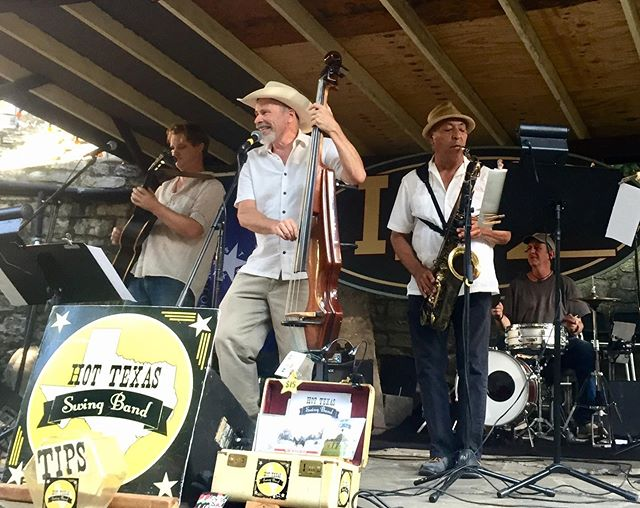
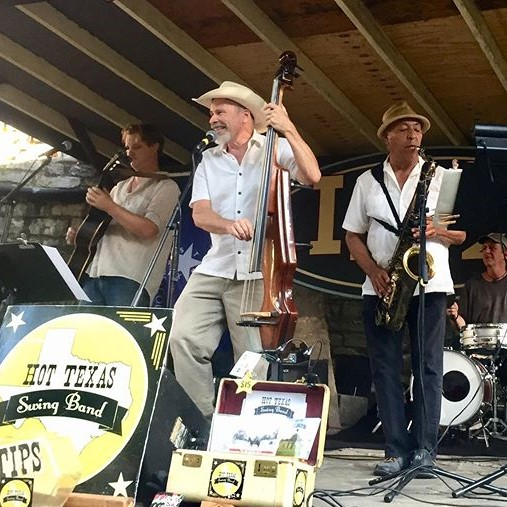
resized band images

diff --git a/assets/styles/style.css b/assets/styles/style.css
@@ -27,6 +27,9 @@ ul {
     text-align: center;
     padding-inline-start: 0;
 }
+h1 {
+    color: rgb(34, 21, 12);
+}
 h2 {
     text-align: center;
     margin-top: 10px !important;
@@ -43,7 +46,7 @@ li {
 }
 /* ----------Navbar---------- */
 .bg-light {
-    background-color: hsl(0, 0%, 4%) !important;
+    background-color: rgb(34, 21, 12) !important;
 }
 .navbar-light,
 .navbar-nav,
@@ -192,6 +195,7 @@ h2 {
     padding: 3%;
     margin-top: auto;
     margin-bottom: auto;
+    text-align: center;
 }
 .wood {
     background-image: url('../images/Boards_3.jpg');
@@ -208,7 +212,7 @@ h2 {
 }
 .bandsRow {
     display: flex;
-    background-color: black !important;
+    background-color: rgb(34, 21, 12) !important;
     padding-top: 10px;
     padding-bottom: 10px;
 }
@@ -224,7 +228,10 @@ h2 {
 #band4 {
     background-image: url('../images/bands_4.jpg');
 }
-
+#liveMusic > div.row.justify-content-center.wood > div.col-xs-12.col-md-12.col-lg-8.col-xl-8.liveMusicText > h3:nth-child(1),
+#liveMusic > div.row.justify-content-center.wood > div.col-xs-12.col-md-12.col-lg-8.col-xl-8.liveMusicText > h3:nth-child(2) {
+    margin-bottom: 1.5rem;
+}
 @media (min-width: 300px) {
     #landingPageLogo {
         width: 80%;
@@ -346,6 +353,12 @@ h2 {
         background-size: contain;
         vertical-align: middle;
     }
+    #band3 {
+        display: none;
+    }
+    #band4 {
+        display: none;
+    }
 }
 /* Small devices (landscape phones, 576px and up) */
 @media (min-width: 576px) {
@@ -371,6 +384,13 @@ h2 {
     #bloodyPrice {
         transform: translate(86px, 60px);
         font-size: 2em;
+    }
+    /* -------------Live Music--------------- */
+    #band3 {
+        display: block;
+    }
+    #band4 {
+        display: block;
     }
 }
 
@@ -445,6 +465,12 @@ h2 {
 
 /* Extra large devices (large desktops, 1200px and up) */
 @media (min-width: 1200px) {
+    p {
+        font-size: 1.1rem;
+    }
+    li {
+        font-size: 1.1rem;
+    }
     #landingPageLogo {
         width: 500px;
         transform: translate(0, 27vh);

diff --git a/index.html b/index.html
@@ -434,10 +434,10 @@
             </div>
         </div>
         <div class="row bandsRow">
-            <div class="col-xs-6 col-sm-6 col-md-3 bandsImages" id="band1"></div>
-            <div class="col-xs-6 col-sm-6 col-md-3 bandsImages" id="band2"></div>
-            <div class="col-xs-6 col-sm-6 col-md-3 bandsImages" id="band3"></div>
-            <div class="col-xs-6 col-sm-6 col-md-3 bandsImages" id="band4"></div>
+            <div class="col-xs-6 col-sm-6 col-md-6 col-lg-3 bandsImages" id="band1"></div>
+            <div class="col-xs-6 col-sm-6 col-md-6 col-lg-3 bandsImages" id="band2"></div>
+            <div class="col-xs-6 col-sm-6 col-md-6 col-lg-3 bandsImages" id="band3"></div>
+            <div class="col-xs-6 col-sm-6 col-md-6 col-lg-3 bandsImages" id="band4"></div>
         </div>
     </div>
     <script src="./assets/scripts/app.js"></script>
